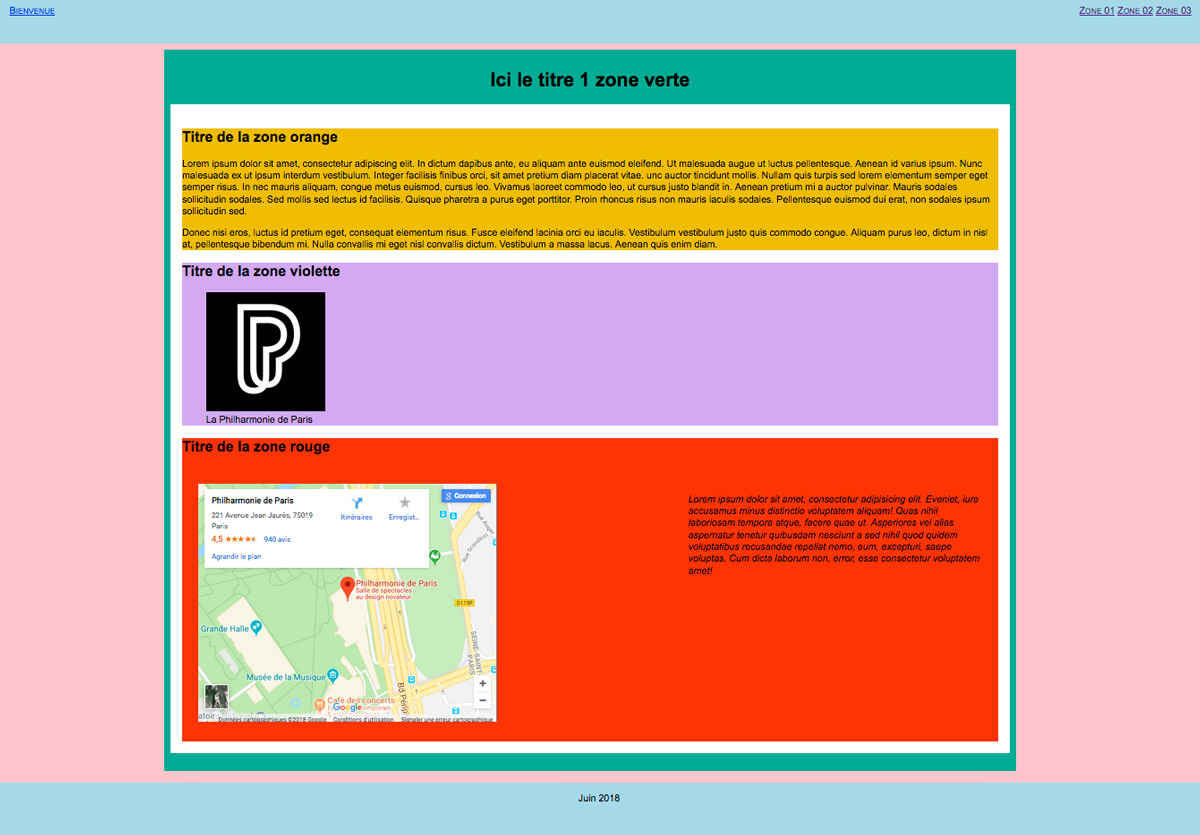
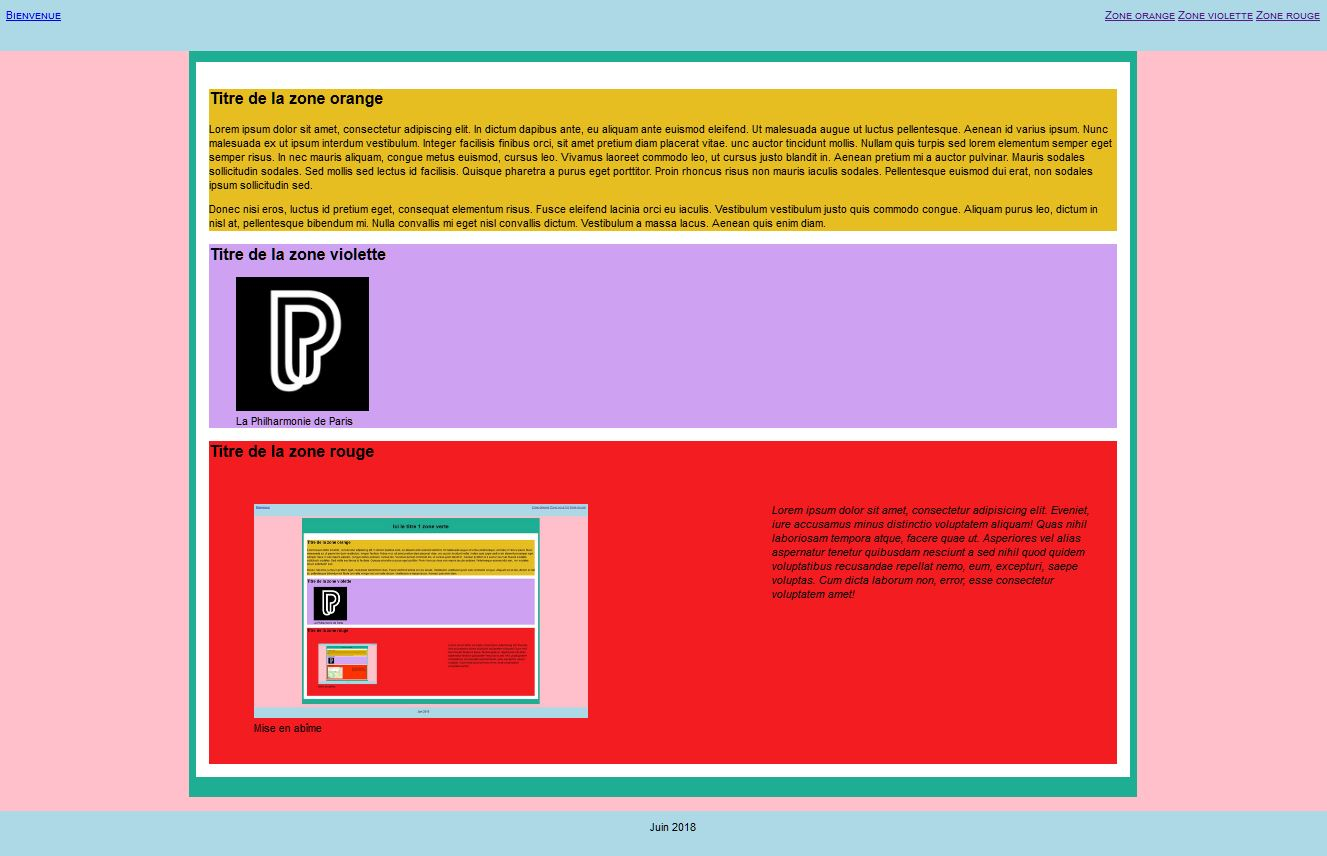
c 04
c 04 zoning avec la photo du zoning

diff --git a/explications/01structure.html b/explications/01structure.html
@@ -16,13 +16,13 @@
 		<nav class="menu">
 			<ul>
 				<li class="active">
-					<a href="#zone01">Zone 01</a>
+					<a href="#zone01">Zone orange</a>
 				</li>
 				<li>
-					<a href="#zone02">Zone 02</a>
+					<a href="#zone02">Zone violette</a>
 				</li>
 				<li>
-					<a href="#zone03">Zone 03</a>
+					<a href="#zone03">Zone rouge</a>
 				</li>
 			</ul>
 		</nav>
@@ -50,8 +50,13 @@
 			</section><!--fin zone 02-->
 			<section id="zone03" class="rouge">
 				<h2>Titre de la zone rouge</h2>
-			  <div class="carte">
-				<iframe src="https://www.google.com/maps/embed?pb=!1m18!1m12!1m3!1d2623.2911556118015!2d2.3918765656755228!3d48.89078812929069!2m3!1f0!2f0!3f0!3m2!1i1024!2i768!4f13.1!3m3!1m2!1s0x47e66db5d902523f%3A0x11ee5b6466fb6236!2sPhilharmonie+de+Paris!5e0!3m2!1sfr!2sfr!4v1529835431104" width="500" height="400" frameborder="0" style="border:0" allowfullscreen></iframe>
+				<div class="carte">
+				<figure>
+					<img src="img/zoning.jpg" alt="le zoning" width="500" height="321">
+					<figcaption>Mise en abîme</figcaption>
+				</figure>
+			  
+				<!-- <iframe src="https://www.google.com/maps/embed?pb=!1m18!1m12!1m3!1d2623.2911556118015!2d2.3918765656755228!3d48.89078812929069!2m3!1f0!2f0!3f0!3m2!1i1024!2i768!4f13.1!3m3!1m2!1s0x47e66db5d902523f%3A0x11ee5b6466fb6236!2sPhilharmonie+de+Paris!5e0!3m2!1sfr!2sfr!4v1529835431104" width="500" height="400" frameborder="0" style="border:0" allowfullscreen></iframe> -->
 			  </div><!--fin div carte-->
 				<div class="adresse">
 					<address><p>Lorem ipsum dolor sit amet, consectetur adipisicing elit. Eveniet, iure accusamus minus distinctio voluptatem aliquam! Quas nihil laboriosam tempora atque, facere quae ut. Asperiores vel alias aspernatur tenetur quibusdam nesciunt a sed nihil quod quidem voluptatibus recusandae repellat nemo, eum, excepturi, saepe voluptas. Cum dicta laborum non, error, esse consectetur voluptatem amet!</p></address>
